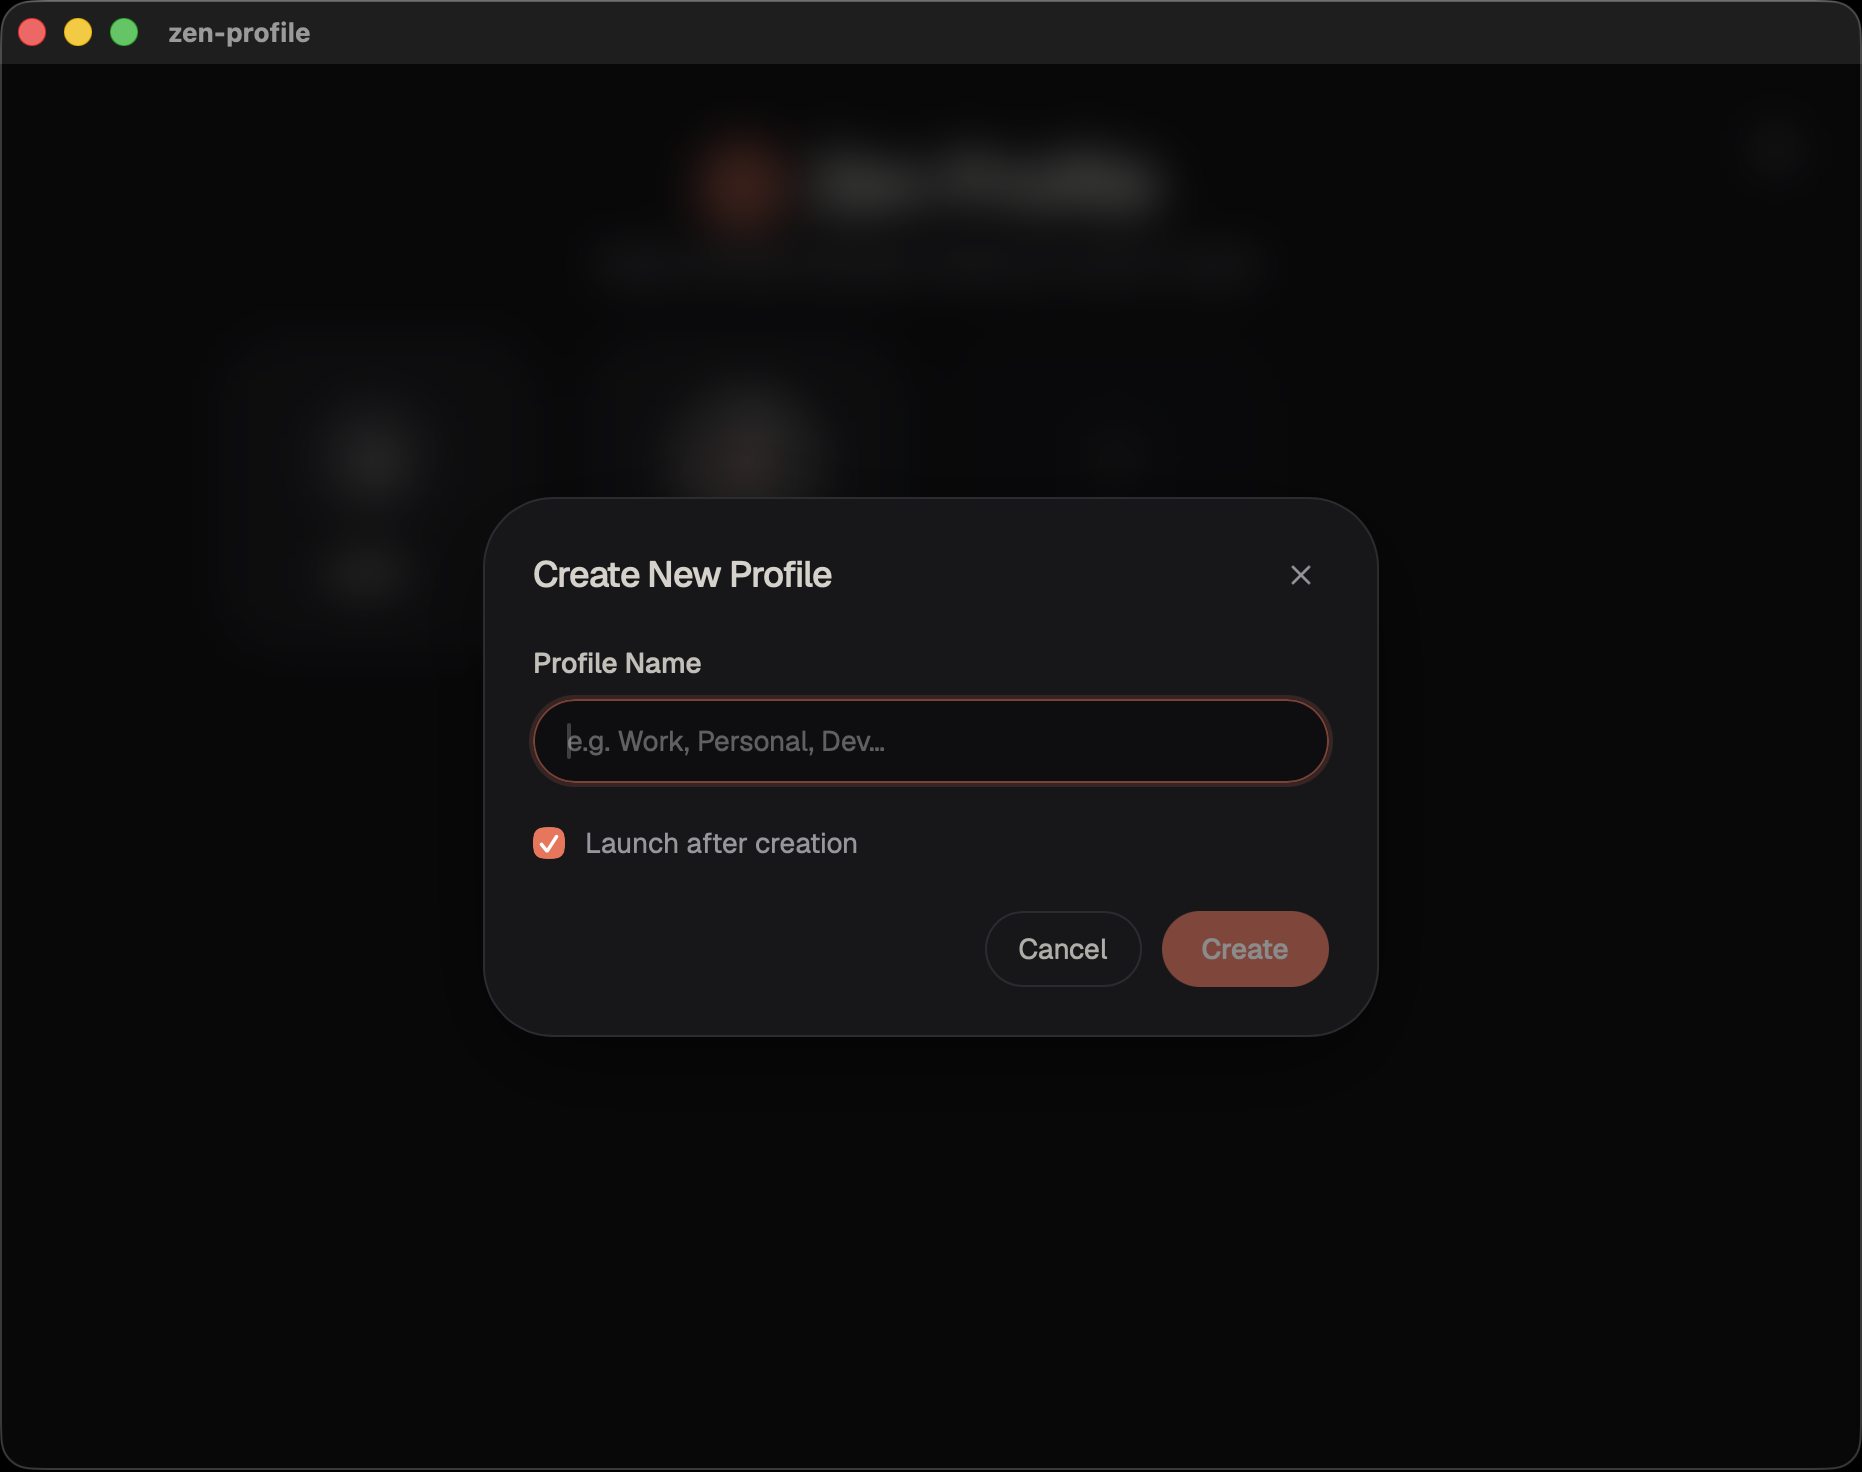
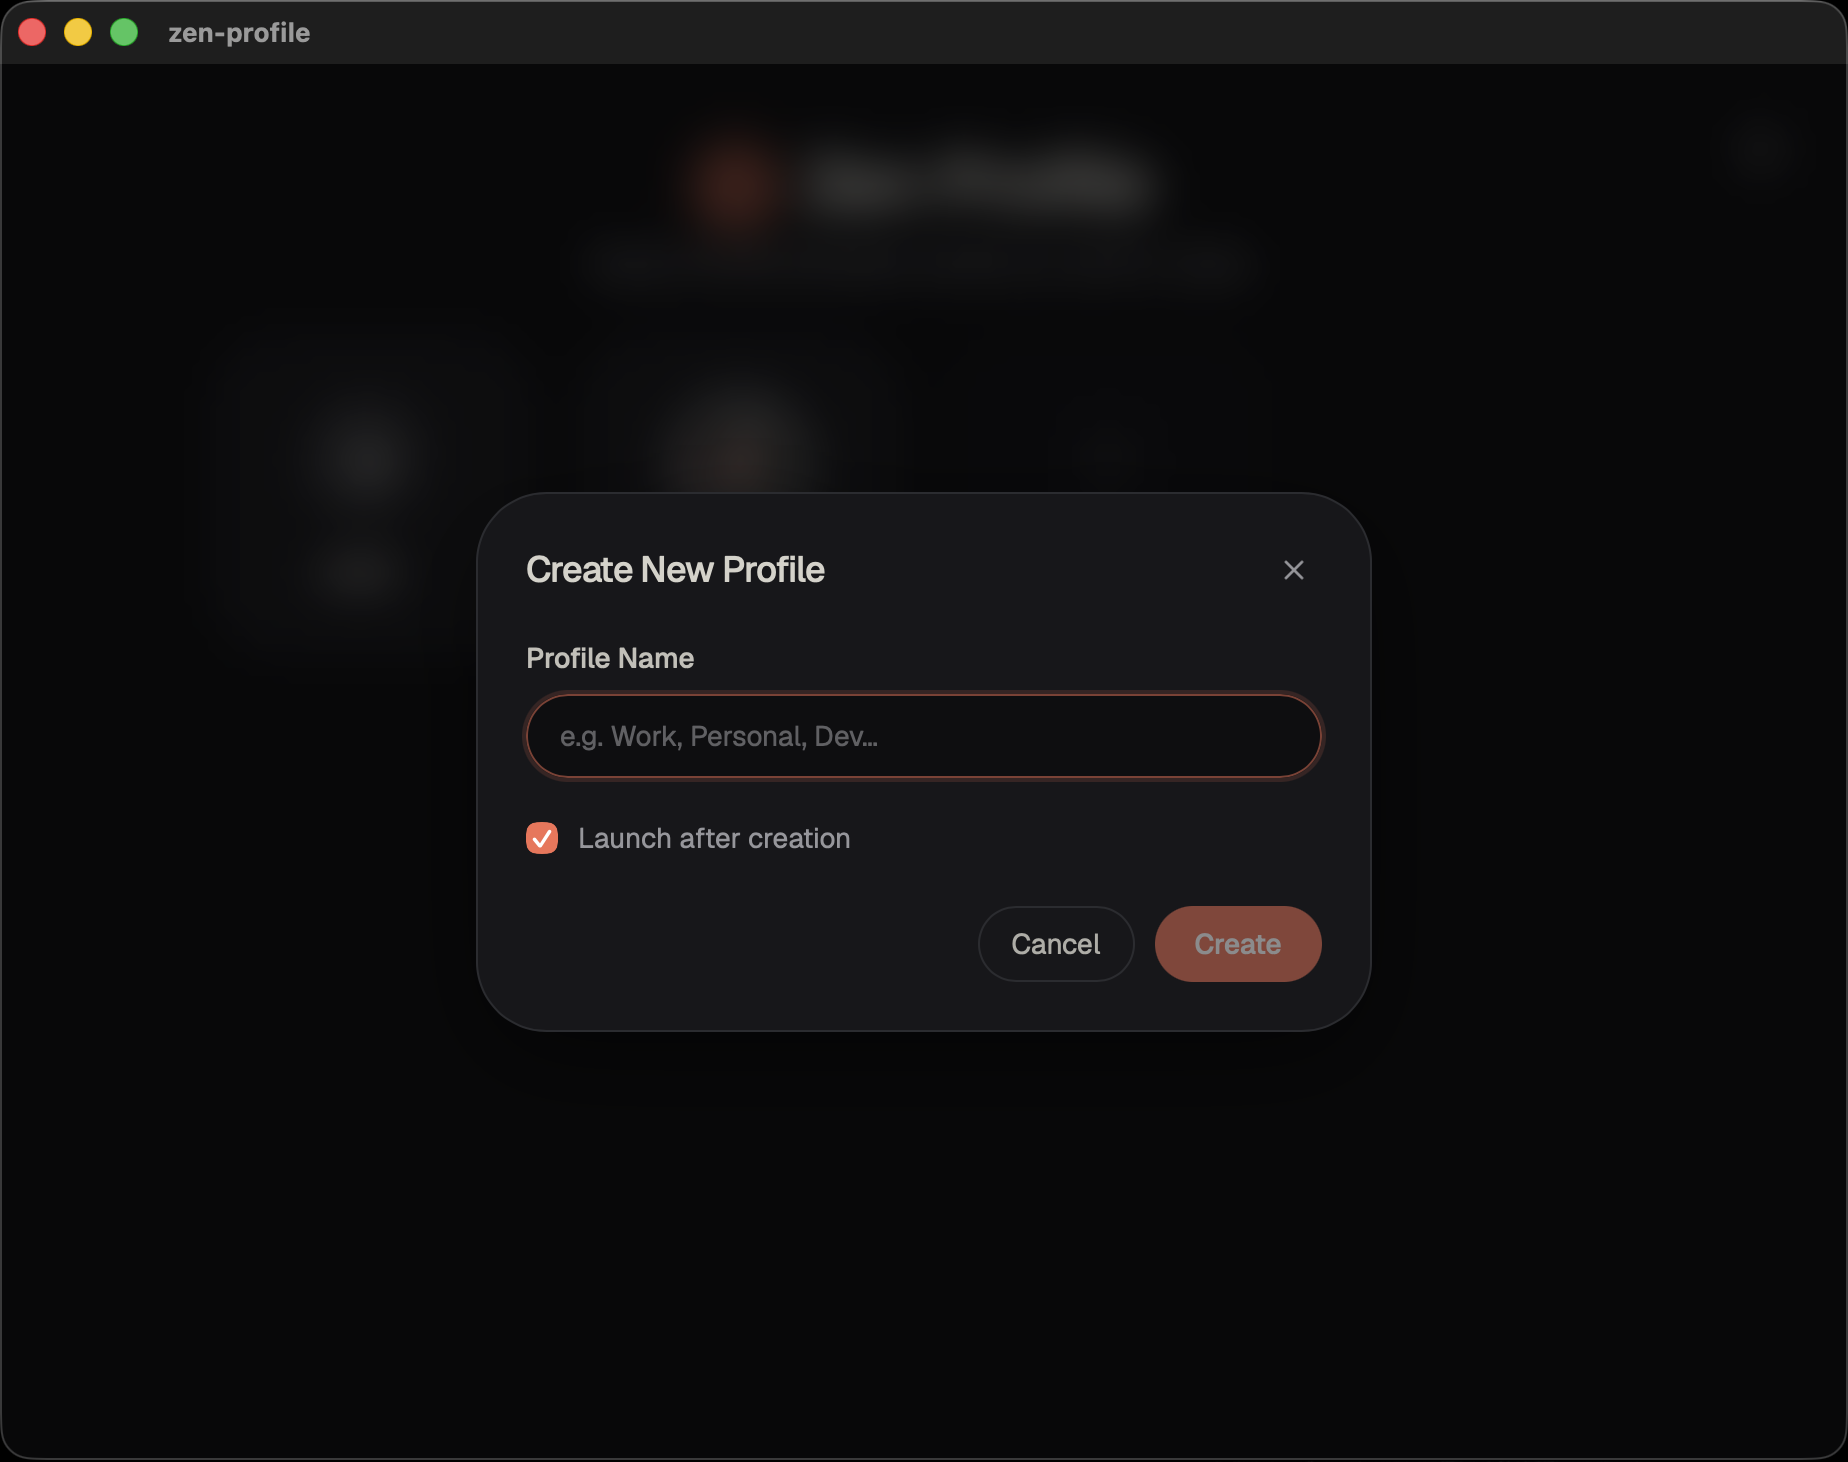
docs: polish README

diff --git a/README.md b/README.md
@@ -2,7 +2,7 @@
 
 # Zen Profile
 
-<img src="README-assets/logo.png" width="96">
+<img src="public/Zen-Profile-bg.png" width="96">
 
 ### A modern native profile manager for Zen Browser on macOS.
 
@@ -42,7 +42,7 @@ Create, launch, rename and customize Zen Browser profiles from one beautiful nat
 ## Create Profile
 
 <p align="center">
-<img src="README-assets/create-profile.png" width="700">
+<img src="README-assets/create-profile.png" width="900">
 </p>
 
 ---